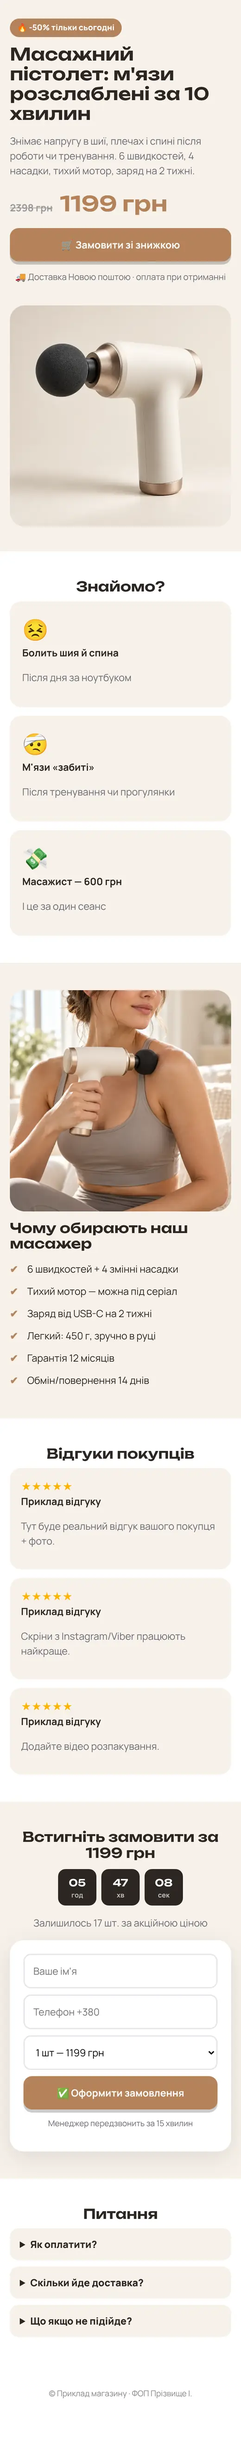
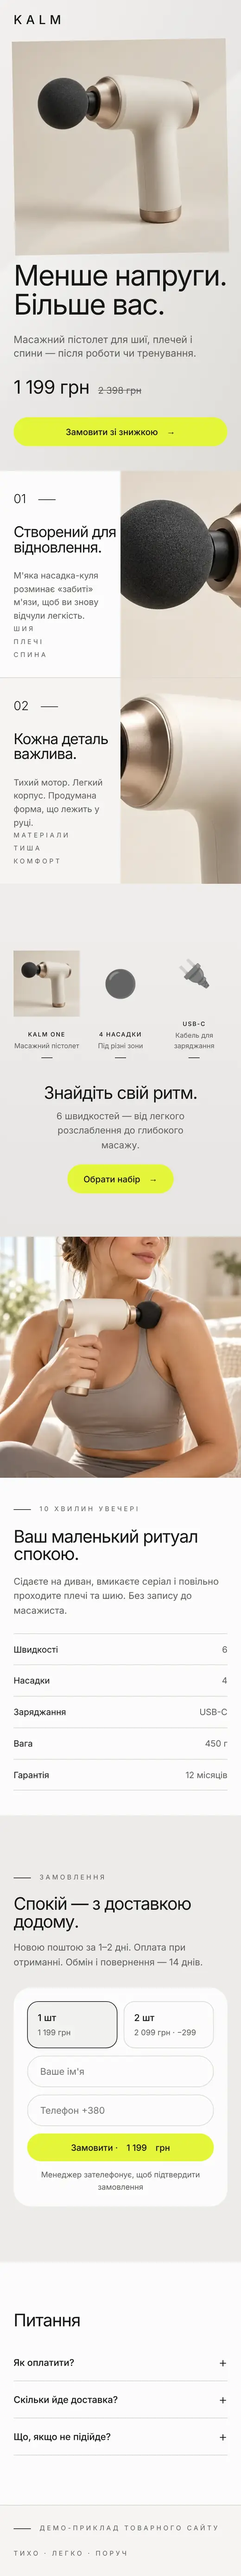
Приклад «Масажний пістолет»: новий преміум-мінімалістичний дизайн
Claude-Session: https://claude.ai/code/session_01Qb9NFWfcnySvqMrgupV51i

diff --git a/examples/tovar.html b/examples/tovar.html
@@ -1,47 +1,237 @@
-<!doctype html><html lang="uk"><head><meta charset="utf-8"><meta name="viewport" content="width=device-width,initial-scale=1"><link rel="preconnect" href="https://fonts.googleapis.com"><link href="https://fonts.googleapis.com/css2?family=Manrope:wght@400;700;800&family=Unbounded:wght@600&display=swap" rel="stylesheet"><link rel="stylesheet" href="demo.css"><title>Масажний пістолет — приклад лендінгу для товарки</title>
-<style>:root{--a:#b5835a;--a2:#f1e3d3;--soft:#f7f1ea;--ink:#2b2622}.ph{border-radius:24px;overflow:hidden;aspect-ratio:1;background:#efe6db}.ph img{width:100%;height:100%;object-fit:cover}.b.alt{color:#2b2622}</style></head><body>
+<!doctype html>
+<html lang="uk">
+<head>
+<meta charset="utf-8">
+<meta name="viewport" content="width=device-width,initial-scale=1">
+<title>KALM — масажний пістолет · приклад товарного сайту</title>
+<meta name="robots" content="noindex">
+<link rel="preconnect" href="https://fonts.googleapis.com">
+<link rel="preconnect" href="https://fonts.gstatic.com" crossorigin>
+<link href="https://fonts.googleapis.com/css2?family=Inter:wght@300;400;500;600&display=swap" rel="stylesheet">
+<style>
+:root{--bg:#ecebe8;--bg2:#f5f4f2;--white:#fbfbfa;--ink:#161616;--ink2:#5f5f5c;--line:#d8d6d2;--lime:#e4f53a;--lime-d:#d3e621}
+*{box-sizing:border-box;margin:0;padding:0}
+html{scroll-behavior:smooth}
+body{font:400 15px/1.55 Inter,system-ui,sans-serif;color:var(--ink);background:var(--white);overflow-x:hidden;-webkit-font-smoothing:antialiased}
+img{display:block;max-width:100%;height:auto}
+a{color:inherit;text-decoration:none}
+.wrap{max-width:1180px;margin:0 auto;padding:0 22px}
+h1,h2{font-weight:400;letter-spacing:-.035em;line-height:1.02}
+h1{font-size:clamp(46px,7.4vw,92px)}
+h2{font-size:clamp(28px,3.4vw,40px)}
+.cap{font-size:10.5px;letter-spacing:.32em;text-transform:uppercase;color:var(--ink2);line-height:2}
+.dash{display:inline-block;width:28px;height:1px;background:var(--ink);vertical-align:middle;margin-right:14px}
+.btn{display:inline-flex;align-items:center;gap:14px;background:var(--lime);color:var(--ink);border:0;border-radius:999px;padding:14px 26px;font:500 14px Inter;cursor:pointer;transition:background .2s,gap .25s}
+.btn:hover{background:var(--lime-d);gap:20px}
+.btn.block{width:100%;justify-content:center}
+.demo-bar{background:var(--ink);color:#fff;font-size:12.5px;text-align:center;padding:8px 12px}
+.demo-bar a{color:var(--lime)}
+
+/* шапка */
+.top{position:absolute;left:0;right:0;z-index:5}
+.top .wrap{display:flex;align-items:center;justify-content:space-between;height:78px}
+.logo{font-size:20px;letter-spacing:.32em;font-weight:500}
+.nav{display:flex;gap:44px;font-size:13.5px}
+.nav a{opacity:.8}.nav a:hover{opacity:1}
+.tag{font-size:12px;line-height:1.35;text-align:left;border-bottom:1px solid var(--ink);padding-bottom:10px}
+
+/* hero */
+.hero{position:relative;background:linear-gradient(115deg,#f2f1ef 0%,#e7e6e3 55%,#dedcd8 100%);overflow:hidden}
+.hero::before{content:"";position:absolute;inset:0;background:linear-gradient(140deg,transparent 40%,#ffffff55 41%,transparent 62%);pointer-events:none}
+.hero .wrap{position:relative;display:grid;grid-template-columns:1fr 1.05fr;align-items:center;min-height:700px;padding-top:90px;padding-bottom:40px}
+.hero p.lead{font-size:clamp(16px,1.5vw,19px);color:var(--ink2);margin:22px 0 30px;max-width:340px;line-height:1.4}
+.hero-pic{position:relative}
+.hero-pic img{width:100%;max-width:560px;margin-left:auto;mix-blend-mode:multiply;animation:float 7s ease-in-out infinite}
+@keyframes float{50%{transform:translateY(-12px) rotate(-1deg)}}
+.hero .side{position:absolute;right:22px;bottom:60px;text-align:left}
+.hero .low{margin-top:90px}
+.price{display:flex;align-items:baseline;gap:14px;margin:-10px 0 26px}
+.price b{font-weight:400;font-size:30px;letter-spacing:-.02em}
+.price s{color:var(--ink2);font-size:15px}
+
+/* 2 картки */
+.duo{display:grid;grid-template-columns:1fr 1fr}
+.duo article{position:relative;display:grid;grid-template-columns:1fr 1fr;min-height:420px;overflow:hidden;background:var(--white)}
+.duo article+article{background:var(--bg2);border-left:1px solid var(--line)}
+.duo .t{padding:46px 0 40px 40px;display:flex;flex-direction:column}
+.duo .num{font-size:20px;font-weight:300;margin-bottom:56px}
+.duo h2{font-size:clamp(24px,2.3vw,30px);margin-bottom:22px}
+.duo p{color:var(--ink2);font-size:14px;max-width:220px}
+.duo .cap{margin-top:auto}
+.duo img{width:100%;height:100%;object-fit:cover;transition:transform 1.2s}
+.duo article:hover img{transform:scale(1.06)}
+
+/* комплект */
+.kit{background:linear-gradient(180deg,#efeeeb,#e6e5e2);padding:90px 0 70px;overflow:hidden}
+.kit .wrap{display:grid;grid-template-columns:repeat(3,1fr) 1.1fr;gap:26px;align-items:end}
+.item{text-align:center}
+.item .pic{aspect-ratio:1;display:grid;place-items:center;margin-bottom:22px}
+.item .pic img{max-height:100%;mix-blend-mode:multiply;transition:transform .4s}
+.item:hover .pic img{transform:translateY(-8px)}
+.item .ico{font-size:72px;filter:grayscale(1);opacity:.8}
+.item b{display:block;font-weight:500;font-size:11px;letter-spacing:.24em;text-transform:uppercase}
+.item span{display:block;color:var(--ink2);font-size:12.5px;margin-top:2px}
+.item i{display:block;width:18px;height:1px;background:var(--ink);margin:10px auto 0}
+.kit .cta{align-self:center;padding-left:10px}
+.kit .cta h2{margin-bottom:12px}
+.kit .cta p{color:var(--ink2);margin-bottom:24px;max-width:240px}
+
+/* у житті */
+.life{display:grid;grid-template-columns:1.1fr 1fr;background:var(--white)}
+.life img{width:100%;height:100%;object-fit:cover;max-height:620px}
+.life .t{padding:70px 50px;align-self:center}
+.life h2{margin:20px 0 18px}
+.life ul{list-style:none;margin-top:26px;border-top:1px solid var(--line)}
+.life li{display:flex;justify-content:space-between;padding:14px 0;border-bottom:1px solid var(--line);font-size:14px}
+.life li span{color:var(--ink2)}
+
+/* замовлення */
+.order{background:var(--bg);padding:90px 0}
+.order .wrap{display:grid;grid-template-columns:1fr 1fr;gap:60px;align-items:center}
+.order h2{margin:18px 0 16px}
+.order .muted{color:var(--ink2);max-width:360px}
+.form{background:var(--white);border-radius:28px;padding:30px;display:grid;gap:12px}
+.qty{display:grid;grid-template-columns:1fr 1fr;gap:10px}
+.qty input{position:absolute;opacity:0}
+.qty span{display:block;border:1px solid var(--line);border-radius:18px;padding:14px 16px;cursor:pointer;transition:border-color .2s,background .2s}
+.qty b{display:block;font-weight:500}
+.qty small{color:var(--ink2)}
+.qty input:checked+span{border-color:var(--ink);background:#f1f1ee}
+.form input[type=text],.form input[type=tel]{width:100%;border:1px solid var(--line);border-radius:999px;padding:15px 20px;font:400 15px Inter;outline:0;background:var(--white);transition:border-color .2s}
+.form input:focus{border-color:var(--ink)}
+.form input.bad{border-color:#d9534f}
+.form .note{text-align:center;font-size:12.5px;color:var(--ink2)}
+.ok{display:none;text-align:center;padding:30px 10px}
+.ok h2{margin-bottom:8px}
+
+/* faq + підвал */
+.faq{max-width:760px;margin:0 auto;padding:80px 22px}
+.faq h2{margin-bottom:24px}
+.faq details{border-bottom:1px solid var(--line);padding:18px 0}
+.faq summary{list-style:none;cursor:pointer;display:flex;justify-content:space-between;font-weight:500}
+.faq summary::after{content:"+";font-weight:300;font-size:22px;line-height:1;transition:transform .25s}
+.faq details[open] summary::after{transform:rotate(45deg)}
+.faq p{color:var(--ink2);margin-top:8px}
+.foot{border-top:1px solid var(--line);background:var(--bg2)}
+.foot .wrap{display:flex;justify-content:space-between;align-items:center;gap:20px;padding-top:26px;padding-bottom:26px;flex-wrap:wrap}
+
+.rv{opacity:0;transform:translateY(24px);transition:opacity .9s,transform .9s}.rv.in{opacity:1;transform:none}
+
+@media (max-width:860px){
+  .nav,.tag{display:none}
+  .top .wrap{height:64px}
+  .hero .wrap{grid-template-columns:1fr;min-height:0;padding-top:76px}
+  .hero-pic{order:-1;max-width:360px;margin:0 auto}
+  .hero .low,.hero .side{display:none}
+  .hero .btn{width:100%;justify-content:center}
+  .duo{grid-template-columns:1fr}
+  .duo article{min-height:300px}
+  .duo article+article{border-left:0;border-top:1px solid var(--line)}
+  .duo .t{padding:30px 0 26px 22px}
+  .duo .num{margin-bottom:26px}
+  .kit .wrap{grid-template-columns:repeat(3,1fr);gap:12px}
+  .kit .cta{grid-column:1/-1;padding:30px 0 0;text-align:center}
+  .kit .cta p{margin:0 auto 20px}
+  .item .ico{font-size:44px}
+  .item b{font-size:9.5px;letter-spacing:.14em}
+  .item span{font-size:11px}
+  .life{grid-template-columns:1fr}
+  .life img{max-height:420px}
+  .life .t{padding:40px 22px}
+  .order .wrap{grid-template-columns:1fr;gap:30px}
+  .form{padding:22px}
+}
+@media (prefers-reduced-motion:reduce){*{animation:none!important;transition:none!important}.rv{opacity:1;transform:none}}
+</style>
+</head>
+<body>
 <div class="demo-bar">👀 Це приклад сайту з курсу «Сайт за 1 вечір з ШІ» · <a href="../index.html">Повернутись</a></div>
+
+<header class="top"><div class="wrap">
+  <a class="logo" href="#">KALM</a>
+  <nav class="nav"><a href="#detail">Деталі</a><a href="#kit">Комплект</a><a href="#order">Замовити</a></nav>
+  <div class="tag">Спокійніше тіло.<br>Легший день.</div>
+</div></header>
+
 <section class="hero"><div class="wrap">
-  <div><span class="badge">🔥 -50% тільки сьогодні</span>
-    <h1>Масажний пістолет: м'язи розслаблені за 10 хвилин</h1>
-    <p class="muted">Знімає напругу в шиї, плечах і спині після роботи чи тренування. 6 швидкостей, 4 насадки, тихий мотор, заряд на 2 тижні.</p>
-    <div class="price-row"><s>2398 грн</s><b>1199 грн</b></div>
-    <a href="#order" class="b full">🛒 Замовити зі знижкою</a>
-    <p class="muted center" style="font-size:14px">🚚 Доставка Новою поштою · оплата при отриманні</p></div>
-  <div class="ph"><img src="../img/ex-massage-gun.webp" alt="Масажний пістолет"></div>
+  <div>
+    <h1>Менше напруги.<br>Більше вас.</h1>
+    <p class="lead">Масажний пістолет для шиї, плечей і спини — після роботи чи тренування.</p>
+    <div class="price"><b>1 199 грн</b><s>2 398 грн</s></div>
+    <a class="btn" href="#order">Замовити зі знижкою <span>→</span></a>
+    <div class="low cap"><span class="dash"></span><br>Розслаблення<br>після довгого дня</div>
+  </div>
+  <div class="hero-pic"><img src="gun/hero.webp" alt="Масажний пістолет KALM" width="1100" height="1100"></div>
+  <div class="side cap">Тихо<br>Легко<br>Поруч</div>
 </div></section>
-<section><div class="wrap">
-  <h2 class="center">Знайомо?</h2>
-  <div class="grid g3">
-    <div class="card"><div class="e">😣</div><b>Болить шия й спина</b><p class="muted">Після дня за ноутбуком</p></div>
-    <div class="card"><div class="e">🤕</div><b>М'язи «забиті»</b><p class="muted">Після тренування чи прогулянки</p></div>
-    <div class="card"><div class="e">💸</div><b>Масажист — 600 грн</b><p class="muted">І це за один сеанс</p></div>
-  </div></div></section>
-<section style="background:var(--soft)"><div class="wrap grid g2" style="align-items:center">
-  <div class="ph"><img src="../img/ex-massage-use.webp" alt="Масаж плечей масажним пістолетом" loading="lazy"></div>
-  <div><h2>Чому обирають наш масажер</h2><ul class="list">
-    <li>6 швидкостей + 4 змінні насадки</li><li>Тихий мотор — можна під серіал</li><li>Заряд від USB-C на 2 тижні</li><li>Легкий: 450 г, зручно в руці</li><li>Гарантія 12 місяців</li><li>Обмін/повернення 14 днів</li></ul></div>
+
+<section class="duo" id="detail">
+  <article class="rv"><div class="t"><div class="num">01 <span class="dash" style="margin-left:14px"></span></div><h2>Створений для відновлення.</h2><p>М'яка насадка-куля розминає «забиті» м'язи, щоб ви знову відчули легкість.</p><div class="cap">Шия<br>Плечі<br>Спина</div></div><img src="gun/head.webp" alt="Насадка-куля" loading="lazy" width="800" height="800"></article>
+  <article class="rv"><div class="t"><div class="num">02 <span class="dash" style="margin-left:14px"></span></div><h2>Кожна деталь важлива.</h2><p>Тихий мотор. Легкий корпус. Продумана форма, що лежить у руці.</p><div class="cap">Матеріали<br>Тиша<br>Комфорт</div></div><img src="gun/ring.webp" alt="Корпус масажера" loading="lazy" width="800" height="800"></article>
+</section>
+
+<section class="kit" id="kit"><div class="wrap">
+  <div class="item rv"><div class="pic"><img src="gun/hero.webp" alt="" loading="lazy"></div><b>KALM One</b><span>Масажний пістолет</span><i></i></div>
+  <div class="item rv"><div class="pic"><div class="ico">⚫</div></div><b>4 насадки</b><span>Під різні зони</span><i></i></div>
+  <div class="item rv"><div class="pic"><div class="ico">🔌</div></div><b>USB-C</b><span>Кабель для заряджання</span><i></i></div>
+  <div class="cta rv"><h2>Знайдіть свій ритм.</h2><p>6 швидкостей — від легкого розслаблення до глибокого масажу.</p><a class="btn" href="#order">Обрати набір <span>→</span></a></div>
 </div></section>
-<section><div class="wrap"><h2 class="center">Відгуки покупців</h2><div class="grid g3">
-  <div class="rev"><span class="stars">★★★★★</span><b>Приклад відгуку</b><p class="muted">Тут буде реальний відгук вашого покупця + фото.</p></div>
-  <div class="rev"><span class="stars">★★★★★</span><b>Приклад відгуку</b><p class="muted">Скріни з Instagram/Viber працюють найкраще.</p></div>
-  <div class="rev"><span class="stars">★★★★★</span><b>Приклад відгуку</b><p class="muted">Додайте відео розпакування.</p></div>
-</div></div></section>
-<section id="order" style="background:var(--soft)"><div class="wrap">
-  <h2 class="center">Встигніть замовити за 1199 грн</h2>
-  <div class="timer" id="timer"><div><b>00</b><small>год</small></div><div><b>00</b><small>хв</small></div><div><b>00</b><small>сек</small></div></div>
-  <p class="center muted">Залишилось 17 шт. за акційною ціною</p>
-  <form class="f"><input placeholder="Ваше ім'я" required><input type="tel" placeholder="Телефон +380" required>
-    <select><option>1 шт — 1199 грн</option><option>2 шт — 2099 грн (вигода 299)</option></select>
-    <button class="b full">✅ Оформити замовлення</button>
-    <p class="muted center" style="font-size:13px">Менеджер передзвонить за 15 хвилин</p></form>
-  <div class="ok"><div class="big">🎉</div><h2>Дякуємо!</h2><p>Менеджер зателефонує вам найближчим часом.<br><small class="muted">(це демо — у вашому сайті заявка прийде в Telegram)</small></p></div>
+
+<section class="life">
+  <img class="rv" src="gun/use.webp" alt="Масаж плеча масажним пістолетом" loading="lazy" width="1100" height="1100">
+  <div class="t rv">
+    <div class="cap"><span class="dash"></span>10 хвилин увечері</div>
+    <h2>Ваш маленький ритуал спокою.</h2>
+    <p style="color:var(--ink2)">Сідаєте на диван, вмикаєте серіал і повільно проходите плечі та шию. Без запису до масажиста.</p>
+    <ul><li>Швидкості<span>6</span></li><li>Насадки<span>4</span></li><li>Заряджання<span>USB-C</span></li><li>Вага<span>450 г</span></li><li>Гарантія<span>12 місяців</span></li></ul>
+  </div>
+</section>
+
+<section class="order" id="order"><div class="wrap">
+  <div class="rv">
+    <div class="cap"><span class="dash"></span>Замовлення</div>
+    <h2>Спокій — з доставкою додому.</h2>
+    <p class="muted">Новою поштою за 1–2 дні. Оплата при отриманні. Обмін і повернення — 14 днів.</p>
+  </div>
+  <div class="rv">
+    <form class="form" id="f" novalidate>
+      <div class="qty">
+        <label><input type="radio" name="q" value="1199" checked><span><b>1 шт</b><small>1 199 грн</small></span></label>
+        <label><input type="radio" name="q" value="2099"><span><b>2 шт</b><small>2 099 грн · −299</small></span></label>
+      </div>
+      <input type="text" name="name" placeholder="Ваше ім'я" autocomplete="name" required>
+      <input type="tel" name="phone" placeholder="Телефон +380" autocomplete="tel" required>
+      <button class="btn block" type="submit">Замовити · <span id="sum">1 199</span> грн</button>
+      <p class="note">Менеджер зателефонує, щоб підтвердити замовлення</p>
+    </form>
+    <div class="ok form" id="ok"><h2>Дякуємо.</h2><p style="color:var(--ink2)">Менеджер зателефонує найближчим часом. (демо — у вашому сайті заявка прийде в Telegram)</p></div>
+  </div>
 </div></section>
-<section><div class="wrap"><h2 class="center">Питання</h2>
-  <details><summary>Як оплатити?</summary><p>При отриманні на Новій пошті або карткою на сайті.</p></details>
+
+<section class="faq">
+  <h2>Питання</h2>
+  <details><summary>Як оплатити?</summary><p>При отриманні на Новій пошті.</p></details>
   <details><summary>Скільки йде доставка?</summary><p>1–2 дні по Україні.</p></details>
-  <details><summary>Що якщо не підійде?</summary><p>Повернемо гроші протягом 14 днів.</p></details>
-</div></section>
-<footer>© Приклад магазину · ФОП Прізвище І.</footer>
-<div class="sticky"><a href="#order" class="b full">🛒 Замовити за 1199 грн</a></div>
-<script src="demo.js"></script></body></html>
+  <details><summary>Що, якщо не підійде?</summary><p>Обмін або повернення протягом 14 днів.</p></details>
+</section>
+
+<footer class="foot"><div class="wrap">
+  <div class="cap"><span class="dash"></span>Демо-приклад товарного сайту</div>
+  <div class="cap">Тихо · Легко · Поруч</div>
+</div></footer>
+
+<script>
+(function(){
+  if(window.top!==window.self){var bar=document.querySelector(".demo-bar");if(bar)bar.style.display="none"}
+  var f=document.getElementById("f"),sum=document.getElementById("sum");
+  f.addEventListener("change",function(){var v=+f.querySelector("[name=q]:checked").value;sum.textContent=v.toLocaleString("uk-UA")});
+  f.addEventListener("submit",function(e){e.preventDefault();var bad=false;
+    ["name","phone"].forEach(function(n){var i=f.elements[n],b=i.value.replace(/\s/g,"").length<(n=="phone"?10:2);i.classList.toggle("bad",b);bad=bad||b});
+    if(bad)return;f.style.display="none";document.getElementById("ok").style.display="block"});
+  var els=document.querySelectorAll(".rv");
+  if("IntersectionObserver" in window){var io=new IntersectionObserver(function(es){es.forEach(function(e){if(e.isIntersecting){e.target.classList.add("in");io.unobserve(e.target)}})},{threshold:.12});
+    els.forEach(function(el,i){el.style.transitionDelay=(i%4)*90+"ms";io.observe(el)})}else els.forEach(function(el){el.classList.add("in")});
+})();
+</script>
+</body>
+</html>

diff --git a/index.html b/index.html
@@ -187,7 +187,7 @@
       </a>
       <a class="exc reveal" href="examples/tovar.html" target="_blank" rel="noopener" data-sound="whoosh">
         <div class="exc-phone"><div class="exc-screen"><img src="img/ex/tovar.webp" alt="Приклад сайту: Масажний пістолет" loading="lazy" width="520"></div></div>
-        <div class="exc-cap"><small>📦 Товарка · класика</small><b>Масажний пістолет</b><span>Відкрити сайт ↗</span></div>
+        <div class="exc-cap"><small>📦 Товарка · преміум-мінімалізм</small><b>Масажний пістолет</b><span>Відкрити сайт ↗</span></div>
       </a>
       <a class="exc reveal" href="examples/expert.html" target="_blank" rel="noopener" data-sound="whoosh">
         <div class="exc-phone"><div class="exc-screen"><img src="img/ex/expert.webp" alt="Приклад сайту: Онлайн-курс" loading="lazy" width="520"></div></div>
